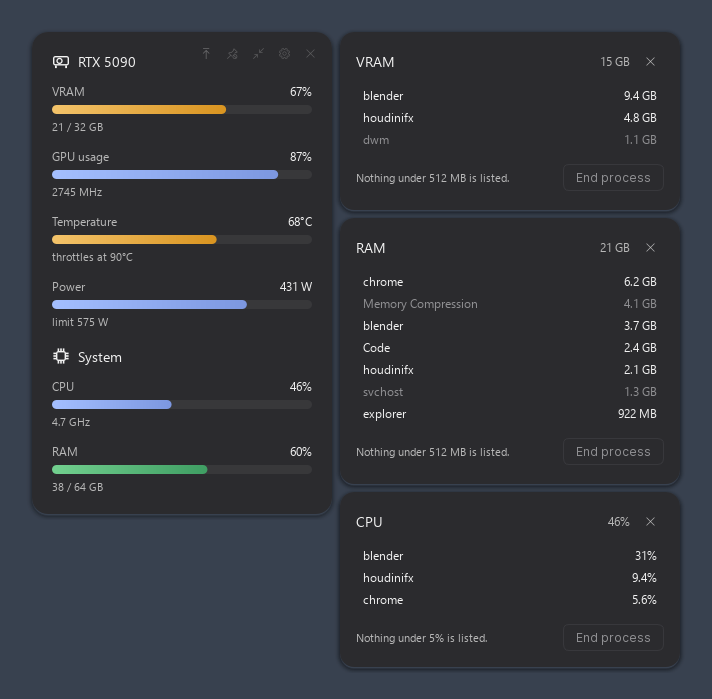
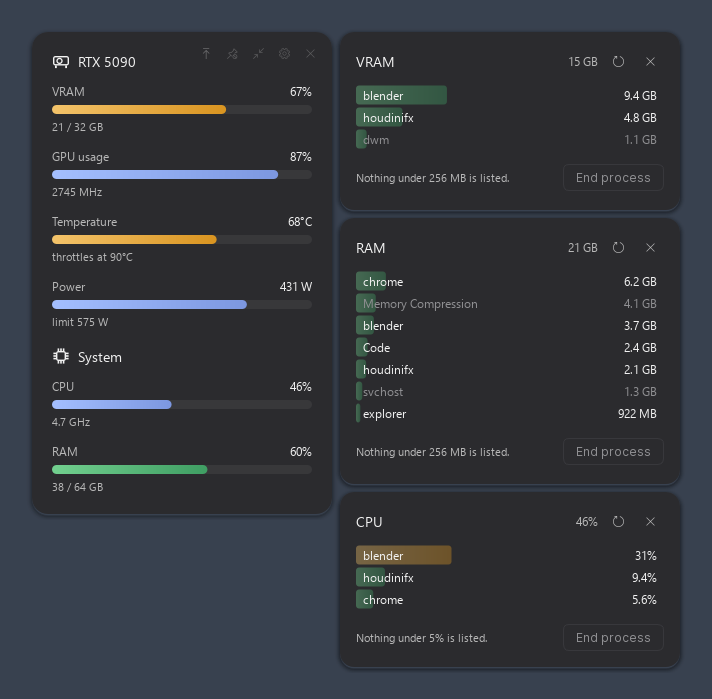
A share bar behind each row
Ivan's arithmetic: 96 GB of an installed 192 fills half the width and is
yellow; past three quarters of the machine it is red; green, yellow,
orange, red in between. And behind the text, not above or below it.

The denominator is the whole machine, which is the point: 6 GB means
nothing until you know whether the box has 8 or 192.

drawRow rather than a delegate -- a delegate paints one cell and Qt clips
it there, so a bar spanning the name and the value would be sliced at the
column boundary. Two things had to go translucent: the bar, because at
full strength the labels stop being readable on it, and the selection,
because a solid accent painted the share away exactly when you are
looking hardest at a row.

The card pushes the capacity, since it is the only thing that ever sees a
sample and the panel has no timer any more. set_capacity re-shares the
rows already on screen rather than re-reading the process table: the
first sample can land after the panel opened, and a refresh nobody asked
for is what the Refresh button exists to prevent.

13 new checks; the suite is at 270 and ALL PASS.

diff --git a/monitor/processes.py b/monitor/processes.py
@@ -15,7 +15,8 @@ from __future__ import annotations
 import logging
 
 from PySide6.QtCore import QPoint, QRect, QRectF, Qt, QTimer, Signal
-from PySide6.QtGui import QBrush, QColor, QPainter, QPainterPath, QPen
+from PySide6.QtGui import (QBrush, QColor, QLinearGradient, QPainter,
+                           QPainterPath, QPen)
 from PySide6.QtWidgets import (QAbstractItemView, QHBoxLayout,
                                QHeaderView, QLabel, QMenu, QMessageBox,
                                QPlainTextEdit, QPushButton, QTreeWidget,
@@ -62,6 +63,72 @@ TIP_CHARS = 420
 def _elide(text, limit=TIP_CHARS):
     text = (text or "").strip()
     return text if len(text) <= limit else text[:limit - 1] + "…"
+
+
+# How much of the machine one row is holding, as a bar behind its text --
+# Ivan's own arithmetic: "si tenemos 192 gb de ram en el sistema, y un
+# proceso ocupa 96 gb, llenara la mitad del ancho de la barra, y sera
+# amarilla, si un proyecto llegase a ocupar mas del 75% de la ram
+# instalada seria rojo".
+#
+# Four bands rather than the card's three, and placed so his two anchors
+# land where he said: half the machine is yellow, three quarters is red.
+# The green and amber pairs are the card's own; orange is interpolated
+# between amber and red so the four read as one ramp.
+ROW_RAMP = (
+    (30.0, "#72d08f", "#3f9e63"),           # green
+    (60.0, "#f3c36a", "#d99420"),           # yellow  <- 50% lands here
+    (75.0, "#f0a06f", "#e0632a"),           # orange
+    (float("inf"), "#ee8484", "#ce3d3d"),   # red
+)
+# The bar sits *behind* the text, so it cannot be as solid as a meter's
+# fill: at full strength the labels stop being readable on it.
+ROW_BAR_ALPHA = 96
+ROW_BAR_RADIUS = 3.0
+ROW_BAR_INSET = 1.5
+# The share of one row, stashed on its column-0 item for drawRow to find.
+SHARE_ROLE = Qt.UserRole + 1
+# Selected rows go translucent for the same reason the bar is: a solid
+# accent would paint the share away.
+SELECTION_ALPHA = 96
+
+
+def row_band(percent):
+    """(left, right) of the band this share of the machine falls in."""
+    for limit, left, right in ROW_RAMP:
+        if percent <= limit:
+            return left, right
+    return ROW_RAMP[-1][1], ROW_RAMP[-1][2]
+
+
+class RowList(QTreeWidget):
+    """The list, with each row's share of the machine painted behind it.
+
+    A delegate cannot do this: it paints one *cell*, and Qt clips it to
+    that cell, so a bar spanning name and value would be cut in half at
+    the column boundary. `drawRow` is handed the whole row.
+    """
+
+    def drawRow(self, painter, option, index):  # noqa: N802 - Qt naming
+        share = index.data(SHARE_ROLE)
+        if share:
+            rect = QRectF(option.rect).adjusted(
+                0, ROW_BAR_INSET, 0, -ROW_BAR_INSET)
+            rect.setWidth(max(2.0, rect.width() * min(1.0, float(share))))
+            left, right = row_band(float(share) * 100.0)
+            start, end = QColor(left), QColor(right)
+            start.setAlpha(ROW_BAR_ALPHA)
+            end.setAlpha(ROW_BAR_ALPHA)
+            gradient = QLinearGradient(rect.left(), 0.0, rect.right(), 0.0)
+            gradient.setColorAt(0.0, start)
+            gradient.setColorAt(1.0, end)
+            painter.save()
+            painter.setRenderHint(QPainter.Antialiasing, True)
+            painter.setPen(Qt.NoPen)
+            painter.setBrush(QBrush(gradient))
+            painter.drawRoundedRect(rect, ROW_BAR_RADIUS, ROW_BAR_RADIUS)
+            painter.restore()
+        super().drawRow(painter, option, index)
 
 
 def paint_card(widget, card_widget):
@@ -239,6 +306,10 @@ class ProcessPanel(QWidget):
         self._muted = "#909093"
         self._clearing = False
         self._details = None
+        # What the whole machine has of this, so a row can say what share
+        # of it one app is holding. 100 for the two percentage kinds,
+        # since their values are already shares.
+        self._capacity = 100.0 if kind in bd.USAGE_KINDS else 0.0
         self.kind = kind
         self._entries = []
         # In the stack the overlay lays out, until the user drags it out.
@@ -276,7 +347,7 @@ class ProcessPanel(QWidget):
         body.addLayout(head)
         body.addSpacing(10)
 
-        self.list = QTreeWidget(self.card)
+        self.list = RowList(self.card)
         self.list.setObjectName("PanelList")
         self.list.setColumnCount(2)
         self.list.setHeaderHidden(True)
@@ -449,6 +520,29 @@ class ProcessPanel(QWidget):
     def _ask(self):
         self.refresh_requested.emit(self.kind)
 
+    def set_capacity(self, total):
+        """How much the machine has of this in all, for the share bars.
+
+        Pushed by the card, which is the only thing holding a sample. The
+        panel does not read it on its own timer -- it has no timer.
+        """
+        total = float(total or 0.0)
+        if total == self._capacity:
+            return
+        self._capacity = total
+        # Re-share the rows already on screen rather than re-reading the
+        # process table: the first sample can land after the panel opened,
+        # and a refresh nobody asked for is what the Refresh button exists
+        # to prevent.
+        for i in range(self.list.topLevelItemCount()):
+            item = self.list.topLevelItem(i)
+            entry = next((e for e in self._entries if e.name == item.text(0)),
+                         None)
+            if entry is not None and total > 0:
+                item.setData(0, SHARE_ROLE,
+                             max(0.0, min(1.0, entry.value / total)))
+        self.list.viewport().update()
+
     def set_entries(self, kind, entries):
         """Called with whatever the sampler thread came back with."""
         if kind != self.kind or not self.isVisible():
@@ -464,6 +558,9 @@ class ProcessPanel(QWidget):
             item = QTreeWidgetItem(
                 [entry.name, bd.fmt_value(kind, entry.value)])
             item.setTextAlignment(1, Qt.AlignRight | Qt.AlignVCenter)
+            if self._capacity > 0:
+                item.setData(0, SHARE_ROLE,
+                             max(0.0, min(1.0, entry.value / self._capacity)))
             tip = _elide(entry.detail)
             if len(entry.pids) > 1:
                 count = f"{len(entry.pids)} processes"
@@ -671,6 +768,12 @@ QMenu::item:selected {{ background: {t['ACCENT']}; color: {t['ON_ACCENT']}; }}
         self.update()
 
     def _qss(self, t):
+        # The selection has to be translucent, or it hides the share bar
+        # exactly when you are looking hardest at the row. There is no
+        # token for this: the palette carries solid accents only.
+        picked = QColor(t["ACCENT"])
+        chosen = (f"rgba({picked.red()}, {picked.green()}, "
+                  f"{picked.blue()}, {SELECTION_ALPHA})")
         return f"""
 QWidget#PanelCard {{ background: transparent; }}
 QLabel {{ background: transparent; font-family: "Segoe UI"; }}
@@ -693,8 +796,8 @@ QTreeWidget#PanelList::item {{
 }}
 QTreeWidget#PanelList::item:hover {{ background: rgba(128, 128, 128, 20); }}
 QTreeWidget#PanelList::item:selected {{
-    background: {t['ACCENT']};
-    color: {t['ON_ACCENT']};
+    background: {chosen};
+    color: {t['TEXT']};
 }}
 /* A protected row is listed but cannot be picked; say so in the colour. */
 QTreeWidget#PanelList::item:disabled {{ color: {t['TEXT_45']}; }}

diff --git a/tests/functional.py b/tests/functional.py
@@ -708,6 +708,75 @@ check("and say where that came from", "Ollama reports loaded:" in _served)
 check("an ordinary row is not asked about at all",
       "Ollama" not in _other)
 
+print("\n-- a share bar behind each row --")
+# Ivan's own arithmetic: "si tenemos 192 gb de ram en el sistema, y un
+# proceso ocupa 96 gb, llenara la mitad del ancho de la barra, y sera
+# amarilla, si un proyecto llegase a ocupar mas del 75% ... seria rojo".
+from monitor.processes import (ROW_RAMP, SHARE_ROLE, RowList, row_band)
+GREEN, YELLOW, ORANGE, RED = [band[1] for band in ROW_RAMP]
+check("half the machine is yellow, as he said", row_band(50.0)[0] == YELLOW,
+      row_band(50.0)[0])
+check("more than three quarters is red", row_band(76.0)[0] == RED,
+      row_band(76.0)[0])
+check("75 itself is not yet red -- he said *more than*",
+      row_band(75.0)[0] == ORANGE, row_band(75.0)[0])
+check("a small share is green", row_band(5.0)[0] == GREEN)
+check("and the four bands are one ramp, green to red",
+      [b[1] for b in ROW_RAMP] == [GREEN, YELLOW, ORANGE, RED])
+
+_bp = ProcessPanel(ctx.theme, ctx.settings, bd.KIND_RAM)
+_bp.show()
+# 192 GB installed, one process holding 96 of them.
+_bp.set_capacity(192 * 1024 ** 3)
+_bp.set_entries(bd.KIND_RAM, [bd.Entry("hog", 96 * 1024 ** 3, [1]),
+                              bd.Entry("small", 2 * 1024 ** 3, [2])])
+settle()
+_share = _bp.list.topLevelItem(0).data(0, SHARE_ROLE)
+check("96 of 192 GB fills half the bar", abs(_share - 0.5) < 0.001,
+      str(_share))
+check("and a small one fills little",
+      abs(_bp.list.topLevelItem(1).data(0, SHARE_ROLE) - 2 / 192) < 0.001)
+
+# The first sample can land after the panel opened, and re-reading the
+# process table to colour it in is exactly what the Refresh button exists
+# to prevent.
+_asked = []
+_bp.refresh_requested.connect(_asked.append)
+_bp.set_capacity(96 * 1024 ** 3)
+settle()
+check("a new capacity re-shares the rows already on screen",
+      abs(_bp.list.topLevelItem(0).data(0, SHARE_ROLE) - 1.0) < 0.001,
+      str(_bp.list.topLevelItem(0).data(0, SHARE_ROLE)))
+check("without asking for the process table again", _asked == [], str(_asked))
+check("the list paints the bars itself", isinstance(_bp.list, RowList))
+_bp.close()
+settle()
+
+# A percentage is already a share of the machine, so those two need no
+# capacity pushed at all.
+_cp = ProcessPanel(ctx.theme, ctx.settings, bd.KIND_CPU)
+check("a percentage kind knows its own scale", _cp._capacity == 100.0)
+_cp.show()      # set_entries ignores a panel nobody is looking at
+_cp.set_entries(bd.KIND_CPU, [bd.Entry("busy", 80.0, [1])])
+settle()
+check("so 80% fills four fifths",
+      abs(_cp.list.topLevelItem(0).data(0, SHARE_ROLE) - 0.8) < 0.001)
+_cp.close()
+settle()
+
+# The card is the only thing that ever sees a sample, so it is the card
+# that has to tell the panels how big the machine is.
+ov.show_breakdown(bd.KIND_RAM)
+settle()
+ov.on_sample(SAMPLE)
+settle()
+check("the card pushes the machine's size to an open panel",
+      ov._panels[bd.KIND_RAM]._capacity ==
+      float(SAMPLE["ram_total"]) * 1024 * 1024,
+      str(ov._panels[bd.KIND_RAM]._capacity))
+ov.show_breakdown(bd.KIND_RAM)
+settle()
+
 print("\n-- several panels at once --")
 ov._pointer_held = lambda: False
 ov.move(20, 20)

diff --git a/monitor/overlay.py b/monitor/overlay.py
@@ -27,6 +27,7 @@ from PySide6.QtWidgets import (QApplication, QGraphicsOpacityEffect,
                                QHBoxLayout, QLabel, QMenu, QSizePolicy,
                                QToolButton, QToolTip, QVBoxLayout, QWidget)
 
+from . import breakdown as bd
 from . import metrics as M
 from .chrome import (ChromeButton, GLYPH_CLOSE, GLYPH_COMPACT,
                      GLYPH_EXPAND, GLYPH_PIN, GLYPH_SETTINGS,
@@ -527,6 +528,7 @@ QWidget#Card[compact="true"] QLabel[role="value"]   {{ font-size: 10px; }}
     def on_sample(self, sample):
         self._sample = sample
         self._got_sample = True
+        self._push_capacity()
         for metric in M.METRICS:
             if metric.available(sample):
                 self._sensed.add(metric.key)
@@ -986,6 +988,26 @@ QWidget#Card[compact="true"] QLabel[role="value"]   {{ font-size: 10px; }}
             return
         self._open_panel(kind, stack=False)
 
+    # What the whole machine has of each meter, in the units the panel's
+    # own values are in. The two percentage kinds are already shares of
+    # the machine, so the panel fixes those at 100 itself.
+    CAPACITY_OF = {bd.KIND_VRAM: "mem_total", bd.KIND_RAM: "ram_total"}
+
+    def _push_capacity(self):
+        """Tell each open panel how big the machine is, so its rows can
+        say what share of it they are holding.
+
+        Here rather than in the panel because the card is the only thing
+        that ever sees a sample -- and because the panel deliberately has
+        no timer of its own any more."""
+        for kind, panel in self._panels.items():
+            field = self.CAPACITY_OF.get(kind)
+            if field is None:
+                continue
+            total = self._sample.get(field)
+            if total:
+                panel.set_capacity(float(total) * 1024 * 1024)   # MB -> bytes
+
     def _open_panel(self, kind, stack):
         panel = ProcessPanel(self.theme, self.settings, kind)
         panel.refresh_requested.connect(self.breakdown_requested)
@@ -996,6 +1018,7 @@ QWidget#Card[compact="true"] QLabel[role="value"]   {{ font-size: 10px; }}
         panel.resized.connect(
             lambda _k, p=panel: self._reflow_stack() if p.isVisible() else None)
         self._panels[kind] = panel
+        self._push_capacity()       # it may open between two samples
         self._last_layout = None
         if kind not in self._stack_order:
             self._stack_order.append(kind)

diff --git a/docs/make_screenshot.py b/docs/make_screenshot.py
@@ -99,6 +99,7 @@ ov.show_breakdown("cpu", additive=True)
 settle()
 for kind, rows in (("vram", VRAM_ROWS), ("ram", RAM_ROWS), ("cpu", CPU_ROWS)):
     ov._panels[kind].set_entries(kind, rows)
+ov._push_capacity()
 settle(400)
 
 windows = [ov] + [ov._panels[k] for k in ("vram", "ram", "cpu")]

diff --git a/CLAUDE.md b/CLAUDE.md
@@ -631,6 +631,42 @@ Two things to keep in mind if it moves again:
 The usage threshold stays at **5%**: Ivan asked about two memory rows,
 and 0.5% would fill the CPU panel with everything that ever woke up.
 
+#### The share bar behind each row
+
+2026-08-27. "si tenemos 192 gb de ram en el sistema, y un proceso ocupa
+96 gb, llenara la mitad del ancho de la barra, y sera amarilla, si un
+proyecto llegase a ocupar mas del 75% de la ram instalada, seria rojo /
+el resto, gradaciones, verde, amarillo, naranja, rojo" -- and, decisive
+for the implementation, "**detras de los textos, no arriba o debajo**".
+
+The denominator is the **whole machine**, not the panel's total and not
+the biggest row. That is the point of it: 6 GB means nothing until you
+know whether the box has 8 or 192.
+
+- **`drawRow`, not a delegate.** A `QStyledItemDelegate` paints one
+  *cell* and Qt clips it there, so a bar spanning the name and the value
+  would be sliced at the column boundary. `RowList` overrides
+  `QTreeView.drawRow`, which is handed the whole row, paints the bar and
+  then lets the base class draw selection and text on top.
+- **Four bands, placed on his two anchors.** `ROW_RAMP`: green to 30,
+  yellow to 60 (so half the machine is yellow), orange to 75, red past it
+  (he said *more than* 75%, so 75 itself is still orange). Green and
+  amber are the card's own pairs; orange is interpolated between amber
+  and red so the four read as one ramp.
+- **Alpha, twice.** The bar is `ROW_BAR_ALPHA` because at full strength
+  the labels stop being readable on it -- and the **selection** had to go
+  translucent too (`SELECTION_ALPHA`), or a solid accent paints the share
+  away exactly when you are looking hardest at the row. There is no token
+  for a translucent accent; it is built from `ACCENT` in `_qss`.
+- **The card pushes the capacity, the panel never reads it.** Only the
+  overlay ever sees a sample (`Overlay._push_capacity`, `CAPACITY_OF`),
+  and the panel has no timer any more. `set_capacity()` re-shares the
+  rows already on screen rather than re-reading the process table: the
+  first sample can land after the panel opened, and a refresh nobody
+  asked for is the thing the Refresh button exists to prevent.
+- The two percentage kinds fix their own capacity at 100 in
+  `__init__` -- their values are already shares of the machine.
+
 #### No auto-refresh: the list holds still
 
 2026-08-27. "para que la lista no cambie de posicion, pongamos un boton

diff --git a/README.md b/README.md
@@ -28,7 +28,7 @@ monitor/overlay.py       the card: chrome, drag, context menu, layout
 monitor/prefs.py         Preferences, extending the template's dialog
 monitor/instance.py      single-instance guard: a second launch raises the first
 monitor/autostart.py     the HKCU Run entry behind "start with Windows"
-tests/functional.py      257 offscreen checks, no window, no pytest
+tests/functional.py      270 offscreen checks, no window, no pytest
 ico/make_icon.py         draws the icon; --build repacks GPU_Monitor.ico
 docs/                    the ia-usage design spec; the README picture and its script
 vendor/app_template      bundled copy of the shared Windows template
@@ -126,6 +126,13 @@ memory rows, 5% on the two usage ones -- so the list never adds up to
 the bar: the rest is small fry plus, on VRAM, the driver's own
 allocations. The panel is titled with the exact name you double-clicked,
 so no two of them can be mistaken for each other.
+
+**Each row carries a bar behind its text** showing what share of the
+whole machine it is holding: a process on 96 GB of an installed 192 fills
+half the width, and the colour follows the same number -- green, yellow
+at half, orange, and red past three quarters. It answers a different
+question from the figure beside it: 6 GB means nothing until you know
+whether the box has 8 or 192.
 
 **The list holds still.** There is no auto-refresh: opening the panel
 reads once, and after that nothing moves until you press **Refresh** in
